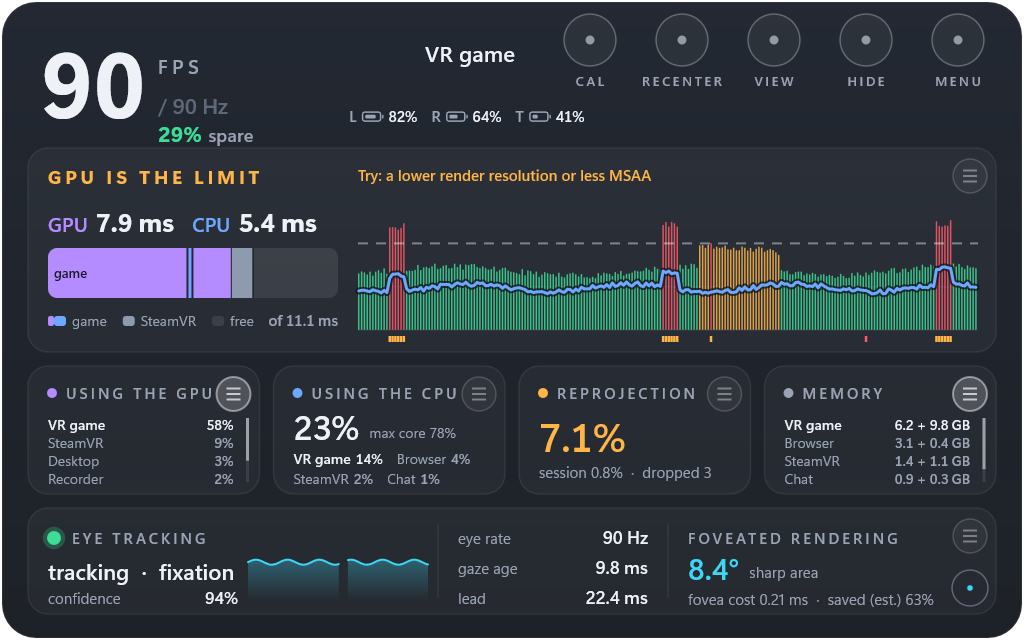
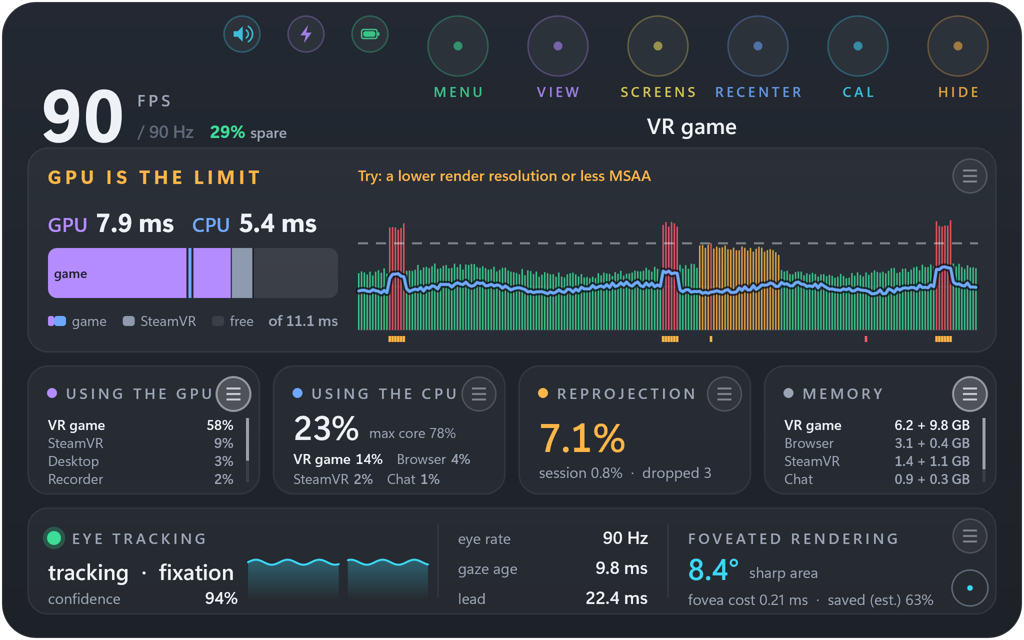
LegendPanel 2.0.0: README and images

diff --git a/README.md b/README.md
@@ -6,18 +6,97 @@
 https://github.com/user-attachments/assets/a2c4e61c-8a13-4e4a-b75e-2e55a29b470a
 
 
-A performance panel for SteamVR. It sits on your wrist or in the room and shows your frame rate, frame times, GPU and CPU use, memory, batteries and eye tracking, without leaving VR. Free to use.
+LegendPanel is a SteamVR panel that sits on your wrist or in the room. It shows your frame rate, frame times, GPU and CPU use, memory, batteries and eye tracking without leaving VR. With 2.0 it also puts your monitors and app windows in VR, with a keyboard, voice typing and full control over how everything docks and moves. Free to use.
 
-## What's new in 1.0
-- First release.
+![LegendPanel 2.0 features](docs/legendpanel-features.png)
+
+## What's new in 2.0
+
+### Screens
+- Monitors and single app windows as overlays (Windows Graphics Capture), as many as you like, restored after a restart.
+- Menus, dropdowns and dialogs that reach past a window's edge get overlays of their own: fully clickable, movable on their own, and docked back onto their window when you let go over it or beside one of its edges.
+- Fast mirror: DXGI Desktop Duplication at the source's own frame rate (exclusive fullscreen included) for games, emulators and 3D apps, with low-latency laser updates paced to the headset's frames.
+- Curve X and Y (seamless bands) and Auto curve (radius = distance × an adjustable ratio, sideways or both ways); width, opacity, brightness, contrast and tint.
+- 3D: side-by-side and over-under, each half to its own eye, with swap eyes.
+- Follow the active window; webcam and capture-card sources; optional Windows notifications as cards.
+- A control bar under each screen, shown when your laser or your eyes come near it: keyboard, pin, curve, opacity, lock, close. It moves to whichever outer edge is free.
+- Laser mouse: move, click and scroll. Lock a screen to make it click-through.
+- Layouts: save and load screen arrangements, optionally per game. Bring here and RECENTER bring back lost screens. Optional gaze fade.
+
+![Pop-ups past the window's edge](docs/legendpanel-popups.png)
+
+![3D screens](docs/legendpanel-3d.png)
+
+### Docking and moving
+- Pin to the room, a wrist or your head. Dock on any side of the panel, another screen, XSOverlay or other wrist apps, facing the way you hold it (a quarter turn too), with a snap preview. Docked groups move, pin and dock as one.
+- Screens docked side by side, and the panel beside them, form one curved unit. Or fold flat at the seams to face you (Auto angle). Fold any docked surface by its edge handle in 15° steps that hold.
+- Surround: your screens around you in one or two rows, with adjustable distance and wrap.
+- Throw (optional): let go while moving and it keeps going, with adjustable strength, friction, spin and range. It docks onto a wrist, a panel or a screen it passes.
+- Two hands move, turn and resize anything you hold.
+- Follow head: the panel and every screen can be Off, Lazy follow (adjustable dead zone, catch-up and height) or Locked to view. Several following surfaces tile without overlapping, wrapped around you or on a flat wall.
+
+![Curved units, folding and Surround](docs/legendpanel-surround.png)
+
+![Pinning and docking](docs/legendpanel-pinning.png)
+
+![Follow head and tiling](docs/legendpanel-tiling.png)
+
+### VR keyboard and voice typing
+- Full layout with number row, symbols and emoji; QWERTY, AZERTY, QWERTZ and Dvorak; text shortcuts; word suggestions from a 30,000-word model.
+- Type with either laser, with the controller tips (drumstick), or with your eyes: free dwell, or assisted typing that weighs the gaze against the next likely letter and shortens the dwell for likely keys.
+- Themes (Panel, Midnight, Light, Neon, Beige, Gray and Black caps), any accent color, key and board opacity, key sound packs (Soft, Thock, Creamy, Clacky, Clicky, Typewriter) and haptics.
+- Opens under the screen you clicked. Dock it anywhere or pin it to either wrist; its button brings it back if it gets lost.
+- Voice typing runs on your PC: NVIDIA Nemotron Speech Streaming 0.6B through NeMo-Speech.cpp, built into the exe. Live text while you speak; push to talk or hands-free (Silero VAD). It runs on Auto, the CPU or any GPU (Vulkan). The model (700 MB) downloads on first use and is verified. Windows speech is the fallback.
+
+### Media, sound and actions
+- Now playing with previous, play/pause and next at the top left of the panel.
+- Sound: master volume, a slider per app, output device and mic mute.
+- Action buttons: launch an app, file or web page, press a hotkey, run a macro, or trigger panel actions. Make them in VR or in the desktop window.
+- Batteries show only when low; the device list holds 16 devices.
+
+![Media and sound](docs/legendpanel-media.png)
+
+### Space drag and eye comfort
+- Space drag: hold a thumbstick click, or buttons you record, and move your hand to move the playspace. Adjustable speed, momentum and optional gravity. Fix floor and Reset space sit beside it under **Tools**.
+- Eye comfort: brightness down to 5 % and color temperature in half steps, cooler or warmer.
+
+![Space drag and eye comfort](docs/legendpanel-hero2.png)
+
+![Space drag](docs/legendpanel-spacedrag.png)
+
+![Eye comfort](docs/legendpanel-eyecomfort.png)
+
+### Lasers and test images
+- A color per hand, with buttons to copy one hand's color to the other. Six beam styles that look round from every side: Solid, Glow, Pulse, Rainbow, Dashed and Matrix. An optional shimmering cursor, and lasers that can stay on. The dot is its own overlay on the beam's tip, so it never lags behind the beam.
+- Tooltips: rest your laser on any control to see what it does.
+- Test images for checking your headset, all on dark backgrounds: sharpness charts, an eye chart with an astigmatism dial, a grid, white on black, colors, contrast and dark steps.
+
+![Lasers, tooltips and test images](docs/legendpanel-hero3.png)
+
+![Laser styles](docs/legendpanel-lasers.png)
+
+![Test images](docs/legendpanel-testimages.png)
+
+### The panel and its menu
+- Menu redesigned: centered and symmetric, labeled slider stops you can press with your eyes, a click and a haptic tap on every slider step. Tabs: Panel, Look, Laser, Tools, Sound, ETUI, LegendEye.
+- Tools: Space Setup, Display, Playspace, Throw.
+- ETUI: one switch for eye control, look to press on its own switch, look time 0.3 to 3 s.
+- Haptics: light, medium or strong, with optional taps on press and ticks on hover.
+- Settings backup (save, load, undo) and an update check that only tells you.
+- Six sound packs (new: Glass, Bubble), each with its own resize sound.
+- VRAM in use on AMD and Intel GPUs.
+
+![Menu](docs/legendpanel-menu.png)
+
+![Per-app lists](docs/legendpanel-lists.png)
 
 ## Download
 Get **LegendPanel.exe** from the [latest release](https://github.com/Encapsulation/LegendPanel/releases/latest). It's a single file: no installer, nothing to unpack.
 
 > Windows may show "Windows protected your PC" the first time, because the app isn't code-signed yet. Click **More info**, then **Run anyway**.
 
-> **VirusTotal (1.0.0):** [0 of 71 security vendors flagged it](https://www.virustotal.com/gui/file/21225a007f96a74c1f4daf129ed51dbe3fc5a5ebf3c29e6b6d3586a4e27bfb4f)  
[1 lines of base64/hex data omitted]
+> **VirusTotal (2.0.0):** [0 of 70 security vendors flagged it](https://www.virustotal.com/gui/file/44913b7d893046873f4adec46d6a023617d0b7b28ff38f9999f54ccc04a82c69)  
[1 lines of base64/hex data omitted]
 
 ## Requirements
 - Windows 10 or 11 (64-bit)
@@ -37,23 +116,23 @@ You can also open the panel from its button in the SteamVR dashboard's bottom ba
 - **Usage cards:** GPU and CPU use, GPU temperature and power, the busiest CPU core, reprojection and dropped frames, VRAM and RAM.
 - **Per-app usage:** the apps using the GPU, the CPU and memory. The view button at each card's top right switches to a full list. Point your laser at a list and use the thumbstick to scroll.
 - **Eye tracking card:** tracking state, confidence, eye camera rate, gaze age and foveated rendering status from LegendEye.
-- **Batteries:** controllers and trackers.
+- **Batteries:** controllers and trackers; shown in the header only when one runs low, the full list under the battery icon.
 - **Placement:** on either wrist like a watch, or pinned in the room.
-  - Grab with the grip (or by touching it), tilt and turn it, and drop it where you want.
-  - Pull your hands apart or together to resize; the size stays wherever it goes.
+  - Grab with the grip, tilt and turn it, and drop it where you want.
+  - Pull your hands apart or together to resize (down to 2.5 cm on the wrist, 10 cm in the room); the size stays wherever it goes.
   - Use the thumbstick to push it away or pull it closer while holding it.
   - Grip strength is adjustable.
+  - **Dock beside wrist apps:** hold the panel next to another app's wrist panel (XSOverlay and others) and a faint preview shows where it will snap: above, below, left or right. Let go there and it stays docked beside it, facing the same way. Let go anywhere else and it stays exactly where you put it. The gap is adjustable (the Gap slider under **Panel > Docking**).
 - **Show when:** always, when you look at it with your head, or when you look at it with your eyes (LegendEye). On the wrist it fades out when you look away; the room panel can too (off by default). It is invisible from behind.
-- **Eye-tracked menu (with LegendEye):** look at a button to press it. Large round targets, labels you can read without pressing, a look time from 0.5 to 2 seconds, optional smoothing, snapping to the button you mean, and a choice of cursors. Grid and ring layouts.
-- **Laser:** point with either controller and press with the trigger. Six colors and four angles.
+- **Eye-tracked menu, ETUI (with LegendEye):** look at a button to press it. Large round targets, labels you can read without pressing, a look time from 0.3 to 3 seconds, optional smoothing, snapping to the button you mean, and a choice of cursors. Grid and ring layouts. Everything eye-driven is off until you turn on eye control.
+  - **CAL button:** if the eye cursor lands beside where you look, look straight at the center of the CAL button, point your laser at it too, and pull the trigger. The panel lines its eye cursor up with that spot. Each laser press after that keeps fine-tuning it (**Auto-tune eyes**, on by default).
+- **Menu:** sliders for anything with a range (drag with the laser, look at a labeled stop, or the - / + ends), and a Simple mode that shows only the common pages (**Panel > Menu**).
+- **Laser:** point with either controller and press with the trigger. Six colors or any custom color (look or point anywhere on the color field), four angles, the beam on or off, a pointer cursor of its own (dot, ring, cross, arrow, cone, none) and an adjustable beam width, under **Laser**.
 - **LegendEye remote:** pause or resume tracking, recenter (1 or 5 dots), face tracking, expressions, sending to the game, and foveated rendering presets, all from the panel.
+- **Fix floor:** press **Fix floor** (**Tools > Playspace**), put a controller on the floor while the countdown runs, and the floor is set to the bottom of that controller. Undo it from the tray icon.
 - **Streamer mode:** hides the time and the app lists for recordings and streams.
-- **Sounds:** soft hover and press clicks (optional).
+- **Sounds and haptics:** six sound packs (Subtle, Melodic, Wood, Crisp, Glass, Bubble) under **Sound**; soft hover and press clicks; a click when you grab the panel, a light tick for each spot it can snap to, and a click and snap when you let go there (optional). Haptics (on by default, light / medium / strong) give a short tap in the hand on the same moments. Resizing plays the pack's own resize sound.
 - **Light on your PC:** under 0.1 ms of GPU time per redraw while shown, and sampling runs on its own low-priority thread. While hidden it draws nothing and stops reading the sensors and app usage.
-
-![Per-app lists](docs/legendpanel-lists.png)
-
-![Menu](docs/legendpanel-menu.png)
 
 ## Settings
 Settings are saved in `%LOCALAPPDATA%\LegendEye\info_panel.json`. Start with SteamVR can be turned on or off under **Tools** in the panel's menu or from the tray icon.
